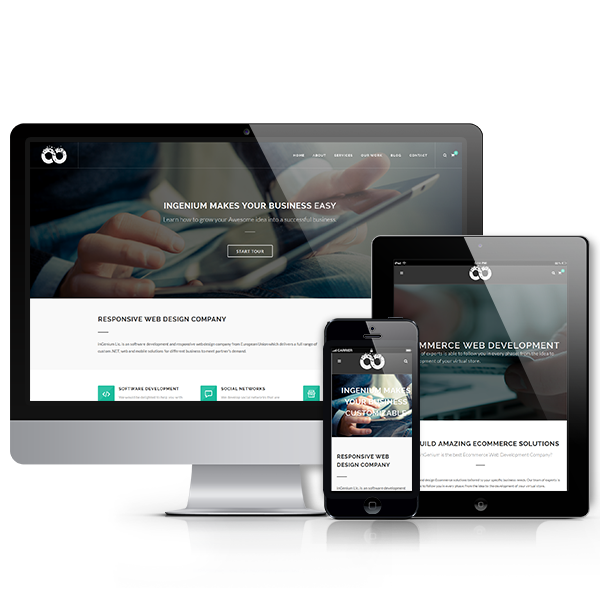
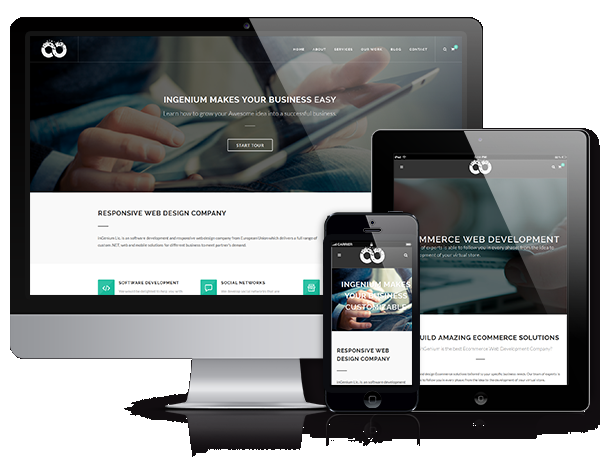
Transformation into portfolio completed. Needs improvement content-wise

diff --git a/index.html b/index.html
@@ -23,7 +23,8 @@
         <header id="header" class="nav">
             <div id="logo">
                 <!-- brand won't always be an image, can be img+text -->
-                <img id="brand-logo" src="original_trombones.png" alt="">
+                <!-- <img id="brand-logo" src="original_trombones.png" alt=""> -->
+                <h3>DIGITAL PORTFOLIO</h3>
             </div>
 
 
@@ -98,18 +99,45 @@
                 </ul>
             </div>
 
-            <div id="video" class="video-wrap text-center">
-                <iframe width="853" height="360" src="https://www.youtube.com/embed/TybMLorMG2A" frameborder="0"
-                    allow="accelerometer; autoplay; encrypted-media; gyroscope; picture-in-picture"
-                    allowfullscreen></iframe>
-            </div>
-            <!-- <iframe id="video" height="260"
-                    src="https://www.youtube-nocookie.com/embed/R_uS0aT0bG8?rel=0&amp;controls=1&amp;showinfo=0"
-                    frameborder="0" allowfullscreen=""></iframe> -->
-
-
-            <div id="pricing">
+            <div id="demos">
                 <div id="card-plan-1" class="card-v">
+                    <h3>FORMS DEMO</h3>
+
+                    <!-- A 100% width container for a demo image with text on top -->
+                    <div class="bg-demo-img">
+                        <img src="demo.png" alt="demo">
+
+                    </div>
+
+                    <!--  Better place an event listener on all buttons-->
+                    <div class="card-buttons">
+                        <button id="btn-code-1"><a href="https://codepen.io/jmferreirab/pen/vvqvPd"
+                                class="button-link">CODE</a></button>
+                        <button id="btn-demo-1"><a href="https://codepen.io/jmferreirab/full/vvqvPd"
+                                class="button-link">DEMO</a></button>
+                    </div>
+
+
+                </div>
+                <div id="card-plan-2" class="card-v">
+                    <h3>ONLINE STORE</h3>
+
+                    <!-- A 100% width container for a demo image with text on top -->
+                    <div class="bg-demo-img">
+                        <img src="demo.png" alt="demo">
+
+                    </div>
+
+                    <!--  Better place an event listener on all buttons-->
+                    <div class="card-buttons">
+                        <button id="btn-code-2"><a href="https://codepen.io/jmferreirab/pen/vvqvPd"
+                                class="button-link">CODE</a></button>
+                        <button id="btn-demo-2"><a href="https://codepen.io/jmferreirab/full/vvqvPd"
+                                class="button-link">DEMO</a></button>
+                    </div>
+
+                </div>
+                <div id="card-plan-3" class="card-v">
                     <h3>STARTUP WEBPAGE</h3>
 
                     <!-- A 100% width container for a demo image with text on top -->
@@ -120,40 +148,11 @@
 
                     <!--  Better place an event listener on all buttons-->
                     <div class="card-buttons">
-                        <button id="btn-code-1">CODE</button>
-                        <button id="btn-demo-1">DEMO</button>
+                        <button id="btn-code-2"><a href="https://codepen.io/jmferreirab/pen/vvqvPd"
+                                class="button-link">CODE</a></button>
+                        <button id="btn-demo-2"><a href="https://codepen.io/jmferreirab/full/vvqvPd"
+                                class="button-link">DEMO</a></button>
                     </div>
-
-
-                </div>
-                <div id="card-plan-2" class="card-v">
-                    <h3>ONLINE STORE</h3>
-                    <h2>$600</h2>
-
-                    <ul class="details">
-                        <li>Lorem ipsum.</li>
-                        <li>Lorem ipsum.</li>
-                        <li>Lorem ipsum.</li>
-                        <li>Lorem ipsum.</li>
-                    </ul>
-
-                    <!--  Better place an event listener on all buttons-->
-                    <button id="btn-plan-2">SELECT</button>
-
-                </div>
-                <div id="card-plan-3" class="card-v">
-                    <h3>TENOR TROMBONE</h3>
-                    <h2>$600</h2>
-
-                    <ul class="details">
-                        <li>Lorem ipsum.</li>
-                        <li>Lorem ipsum.</li>
-                        <li>Lorem ipsum.</li>
-                        <li>Lorem ipsum.</li>
-                    </ul>
-
-                    <!--  Better place an event listener on all buttons-->
-                    <button id="btn-plan-3">SELECT</button>
 
                 </div>
             </div>

diff --git a/css/index.css b/css/index.css
@@ -79,7 +79,7 @@ header#header.nav {
   background: #006630;
   background: #fff;
   width: 100%;
-  z-index: 10;
+  z-index: 1000;
 }
 
 @media (min-width: 768px) {
@@ -101,6 +101,12 @@ header#header.nav #logo {
     width: 60vw;
     margin: 0px;
   }
+}
+
+header#header.nav #logo h3 {
+  letter-spacing: 2px;
+  margin-left: 4rem;
+  text-align: left;
 }
 
 header#header.nav img#brand-logo {
@@ -158,6 +164,7 @@ header#header.nav ul#nav-links {
           align-items: center;
   list-style: none;
   padding: 0;
+  font-weight: bold;
 }
 
 @media (min-width: 768px) {
@@ -311,7 +318,7 @@ header#header.nav li {
   padding-bottom: .5rem;
 }
 
-#pricing {
+#demos {
   display: -webkit-box;
   display: -ms-flexbox;
   display: flex;
@@ -329,7 +336,7 @@ header#header.nav li {
 }
 
 @media (min-width: 768px) {
-  #pricing {
+  #demos {
     -webkit-box-orient: horizontal;
     -webkit-box-direction: normal;
         -ms-flex-direction: row;
@@ -337,19 +344,21 @@ header#header.nav li {
   }
 }
 
-#pricing .card-v {
+#demos .card-v {
   width: 100%;
   max-width: 300px;
   margin: 0 auto 1rem auto;
   border: 1px solid black;
   padding-bottom: 1.5rem;
   border-radius: 3px;
-  background-color: white;
+  background-color: #4b4b4b;
   z-index: 10;
+  -webkit-box-shadow: 0px 2px 3px 0px black;
+          box-shadow: 0px 2px 3px 0px black;
 }
 
 @media (min-width: 768px) {
-  #pricing .card-v {
+  #demos .card-v {
     width: auto;
     -webkit-box-flex: 0;
         -ms-flex: 0 1 auto;
@@ -359,15 +368,25 @@ header#header.nav li {
   }
 }
 
-#pricing .card-v h3 {
+#demos .card-v h3 {
   background-color: #d6d6d6;
   padding: 1rem 0px;
   margin: 0;
   z-index: -1;
   border-radius: 3px;
+  -webkit-box-shadow: 0px 2px 3px 0px black;
+          box-shadow: 0px 2px 3px 0px black;
 }
 
-#pricing .card-v button {
+#demos .card-v .bg-demo-img {
+  margin: 1rem;
+}
+
+#demos .card-v .bg-demo-img img {
+  width: 100%;
+}
+
+#demos .card-v button {
   background: #f0c30e;
   border: 1px solid #f0c30e;
   border-radius: 2px;
@@ -379,14 +398,13 @@ header#header.nav li {
   -webkit-box-flex: 1;
       -ms-flex: 1 1 35%;
           flex: 1 1 35%;
+  -webkit-box-shadow: 0px 2px 3px 0px black;
+          box-shadow: 0px 2px 3px 0px black;
 }
 
-#pricing ul.details {
-  list-style: none;
-}
-
-#pricing li {
-  padding: 0.3rem;
+#demos .card-v button a {
+  text-decoration: none;
+  color: black;
 }
 
 .video-wrap {

diff --git a/index.scss b/index.scss
@@ -127,7 +127,7 @@ header#header.nav {
     background: hsl(148, 100%, 20%);
     background: $bg-color;
     width: 100%;
-    z-index: 10;
+    z-index: 1000;
 
     @include desktop {
         height: $navbar-height;
@@ -147,6 +147,12 @@ header#header.nav {
         @include desktop {
             width: 60vw;
             margin: 0px; //No margins since everything is fixed by flex layout
+        }
+
+        h3 {
+            letter-spacing: 2px;
+            margin-left: 4rem;
+            text-align: left;
         }
 
     }
@@ -208,7 +214,7 @@ header#header.nav {
         list-style: none;
         //margin: 10px auto;
         padding: 0;
-
+        font-weight: bold;
 
         @include desktop() {
             flex-direction: row;
@@ -349,7 +355,7 @@ header#header.nav {
 
 
 
-#pricing {
+#demos {
     display: flex;
     width: 100%;
     margin: auto;
@@ -359,7 +365,6 @@ header#header.nav {
     // flex-wrap: wrap;
     margin: 1rem auto;
     flex-direction: column;
-
 
     @include desktop {
         // flex-wrap: nowrap;
@@ -374,10 +379,9 @@ header#header.nav {
         border: 1px solid black;
         padding-bottom: 1.5rem;
         border-radius: 3px;
-        background-color: white;
+        background-color: rgb(75, 75, 75);
         z-index: 10;
-
-
+        box-shadow: 0px 2px 3px 0px black;
 
         @include desktop {
             width: auto;
@@ -392,8 +396,19 @@ header#header.nav {
             margin: 0;
             z-index: -1;
             border-radius: 3px;
+
+            // box-shadow: 0px 0px 3px 3px black;
+            box-shadow: 0px 2px 3px 0px black;
         }
 
+        .bg-demo-img {
+            // width: 100%;
+            margin: 1rem;
+
+            img {
+                width: 100%;
+            }
+        }
 
         button {
             background: $secondary-color;
@@ -407,20 +422,19 @@ header#header.nav {
             // width: 30%;
             // margin-top: 1rem;
             // @include nox
+            box-shadow: 0px 2px 3px 0px black;
+
+            a {
+                text-decoration: none;
+                color: black;
+            }
+
+
         }
 
 
     }
 
-
-
-    ul.details {
-        list-style: none;
-    }
-
-    li {
-        padding: 0.3rem;
-    }
 
 
 
